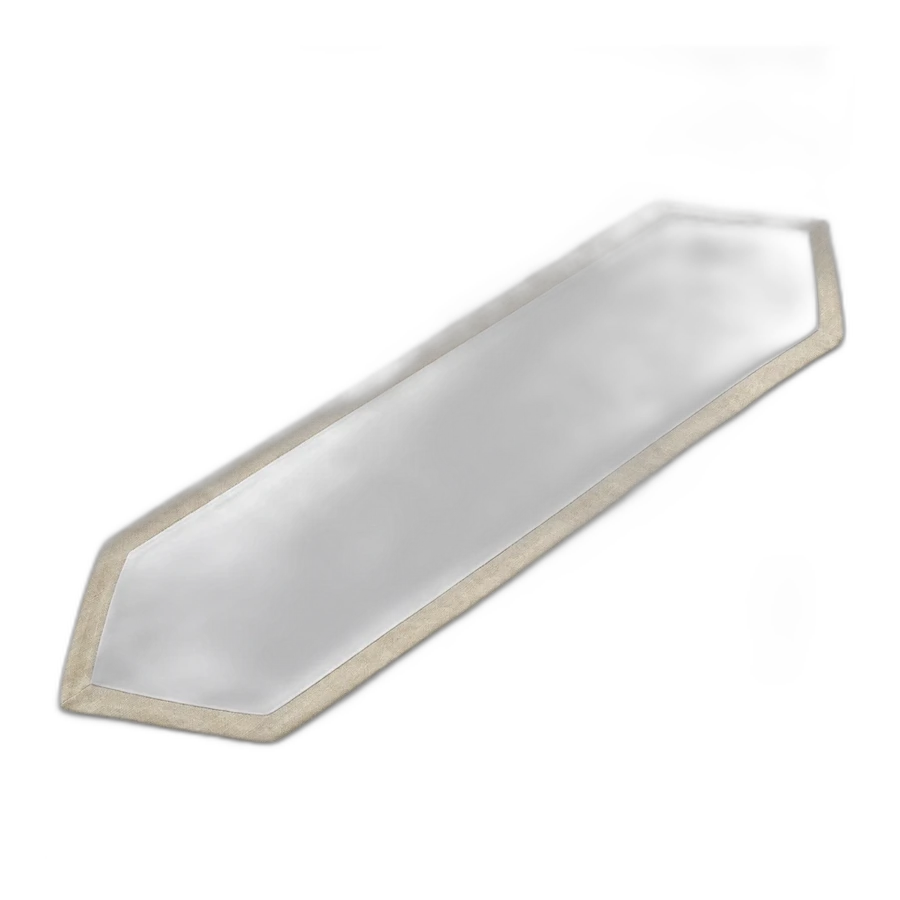
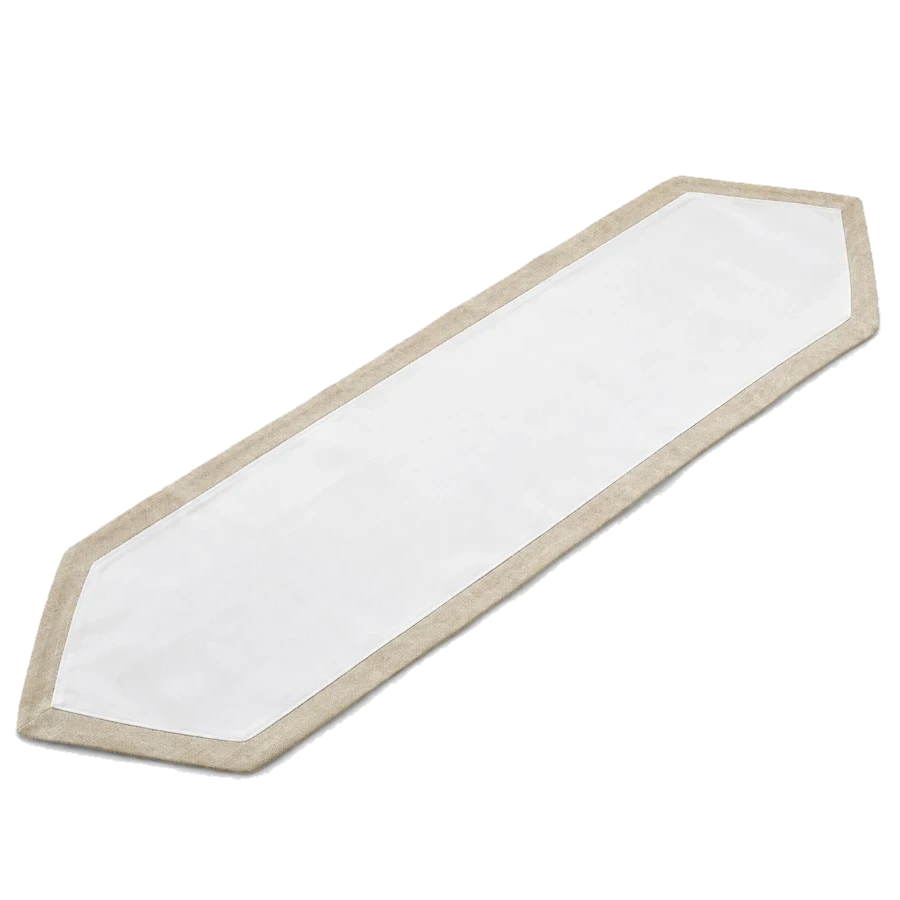
S-131: המתנות מזיקית בסטודיו — המוצר למעלה עם העיצוב (#419)
- js/print-fit.js (חדש, משותף): שטחי הדפסה + הלבשה בקוד, יצא מ-zikit-products.js
- js/subl-3d.js: סוג photo — תמונה נקייה + העיצוב מולבש בשטח ההדפסה, 27 מק"טים
- studio: SUBL3D_IDS +27, SUB_ITEMS +4 (8514, 8503-1, 8510, 8589), טעינת print-fit, כיווני דף (8582, 8360-4, 6458)
- תיקוני הלבשה: חיתוך לשקיפות המוצר, סינר מלא, stretch לאליפסות/ראנר, סיבוב דף אוטומטי
- תמונות leather/runner/woodphoto נחתכו מחדש (רקע לבן → flood fill)
- games-sw-30, studio-sw-23, מרשם, טבלת js משותפים

Claude-Session: https://claude.ai/code/session_01GxBj7RBw34hTrhEZWJwyFc

Changed region(s): [[0.0, 0.1867, 0.9956, 0.8711]]

diff --git a/js/print-fit.js b/js/print-fit.js
@@ -1,0 +1,109 @@
+/* print-fit.js — S-131/G-45: שטח ההדפסה האמיתי של כל מתנה מזיקית על התמונה הנקייה שלה, וההלבשה של ההדפסה עליו בקוד.
+ * משותף לעמוד המשחקים (js/zikit-products.js — דף המוצר) ולסטודיו (js/subl-3d.js — המוצר למעלה עם העיצוב של הלקוח).
+ * לכל מפתח: sku (מק"ט זיקית = SUB_ITEMS בסטודיו), mm = גובה המוצר בתמונה במ"מ (לקנה מידה בבמה), והצורה:
+ *   area: 4 נקודות ב-0..1 של התמונה (tl,tr,br,bl) — מישור, גם בפרספקטיבה · cyl: {cx,x0,x1,y0,y1} — גליל, ההדפסה עוטפת רק את החזית הנראית
+ *   heart / ellipse: תיבה [x0,y0,x1,y1] · alpha/blend: איך ההדפסה "נבלעת" בחומר (זכוכית/בד שקופים יותר; ספל פלא שחור = source-over)
+ * התמונות: images/games/zikit/<key>.webp, 900×900 עם שקיפות. ⛔ שינוי כאן = להעלות ?v= בשני הדפים (games/index.html, studio/index.html).
+ * PRINTFIT.render(canvas, spec, productImg, printImg|null) · PRINTFIT.load(key, base) · PRINTFIT.P · PRINTFIT.BY_SKU */
+(function () {
+  'use strict';
+  var P = {
+    'enamel':      { mm: 130, sku: '8724-3', name: 'ספל אמייל ענק עם מכסה', size: '700 מ״ל · הדפסה 20×7 ס״מ', cyl: { cx: .41, x0: .10, x1: .72, y0: .44, y1: .86 } },
+    'mug-neon':    { mm: 100, sku: '8514', name: 'ספל נאון', size: '300 מ״ל · הדפסה 20×9.5 ס״מ', cyl: { cx: .38, x0: .07, x1: .70, y0: .25, y1: .85 } },
+    'mug-magic':   { mm: 100, sku: '8503-1', name: 'ספל פלא — ההדפסה מתגלה בחום', size: '300 מ״ל · הדפסה 19×8 ס״מ', cyl: { cx: .37, x0: .05, x1: .70, y0: .24, y1: .85 }, blend: 'source-over' },
+    'mug-spoon':   { mm: 100, sku: '8510', name: 'ספל עם כפית', size: '300 מ״ל · הדפסה 20×9.5 ס״מ', cyl: { cx: .35, x0: .08, x1: .62, y0: .27, y1: .86 } },
+    'hugmug':      { mm: 150, sku: '8714-1', name: 'האג מאג טרמי', size: 'נירוסטה · הדפסה בחזית', cyl: { cx: .38, x0: .10, x1: .66, y0: .30, y1: .80 } },
+    'wine':        { mm: 160, sku: '8714-3', name: 'גביע יין נירוסטה', size: 'הדפסה על הכוס', cyl: { cx: .50, x0: .33, x1: .68, y0: .15, y1: .45 } },
+    'megamug':     { mm: 240, sku: '8715-1', name: 'מגה מאג טרמי עם קשית', size: '600 מ״ל · הדפסה 22×21 ס״מ', cyl: { cx: .45, x0: .30, x1: .60, y0: .30, y1: .85 } },
+    'thermo':      { mm: 170, sku: '8706-1', name: 'ספל טרמי נירוסטה', size: '400 מ״ל · הדפסה 20×9 ס״מ', cyl: { cx: .31, x0: .10, x1: .54, y0: .25, y1: .78 } },
+    'bottle':      { mm: 240, sku: '8703-2', name: 'בקבוק אלומיניום 600 מ״ל', size: 'הדפסה סביב הבקבוק', cyl: { cx: .50, x0: .34, x1: .65, y0: .45, y1: .88 } },
+    'bottle-straw':{ mm: 250, sku: '8703-1', name: 'בקבוק עם קשית', size: 'הדפסה סביב הבקבוק', cyl: { cx: .53, x0: .40, x1: .66, y0: .40, y1: .85 } },
+    'basalt':      { mm: 230, sku: '8582', name: 'אבן בזלת 12×22', size: 'אבן טבעית · הדפסה על הפן הלבן', area: [[.34, .13], [.67, .13], [.67, .85], [.34, .85]] },
+    'basalt-heart':{ mm: 210, sku: '8589', name: 'אבן בזלת לב 20×20', size: 'אבן טבעית · הדפסה על הפן הלבן', heart: [.15, .08, .85, .78] },
+    'woodphoto':   { mm: 220, sku: '8360-4', name: 'תמונה על עץ עם רגל ניקל', size: '15×20 ס״מ · הדפסה מלאה', area: [[.37, .09], [.68, .04], [.67, .85], [.37, .91]] },
+    'glass':       { mm: 240, sku: '6452', name: 'תמונה על זכוכית עם מעמד', size: '18×23 ס״מ', area: [[.09, .08], [.90, .06], [.90, .71], [.12, .87]], alpha: .9 },
+    'board':       { mm: 230, sku: '6458', name: 'לוח חיתוך זכוכית', size: '20×28 ס״מ · הדפסה מלאה', area: [[.13, .27], [.86, .27], [.96, .70], [.04, .70]] },
+    'crystal':     { mm: 210, sku: '6424', name: 'מגן קריסטל', size: '15×20 ס״מ', area: [[.16, .13], [.78, .09], [.83, .86], [.15, .90]], alpha: .92 },
+    'clock':       { mm: 260, sku: '8022-3', name: 'שעון עמוד LOVE', size: 'הדפסה על לוח השעון 20×20', ellipse: [.39, .37, .59, .57], stretch: true },
+    'woodshape':   { mm: 210, sku: '6101-H20', name: 'לב מעץ מבריק', size: '20 ס״מ · הדפסה מלאה', heart: [.11, .06, .95, .90] },
+    'tin':         { mm: 120, sku: '8707-3', name: 'קופסת מתכת עגולה', size: 'קוטר 15 ס״מ · הדפסה על המכסה', ellipse: [.11, .14, .89, .60], stretch: true },
+    'bracelet':    { mm: 70, sku: '9172-1', name: 'צמיד אלומיניום', size: 'רוחב 3.5 ס״מ', cyl: { cx: .50, x0: .05, x1: .95, y0: .36, y1: .68 } },
+    'hairbrush':   { mm: 230, sku: '8670-1', name: 'מברשת שיער', size: 'הדפסה 6.5×10.5 ס״מ', area: [[.38, .10], [.62, .10], [.62, .47], [.38, .47]], radius: .04 },
+    'magnet':      { mm: 160, sku: '8381', name: 'מגנט עץ 10×15', size: 'הדפסה מלאה', area: [[.21, .07], [.77, .05], [.81, .92], [.21, .95]] },
+    'leather':     { mm: 260, sku: '8609', name: 'תמונה מעור עם מעמד', size: '20×25 ס״מ', area: [[.23, .06], [.82, .05], [.70, .91], [.11, .82]] },
+    'scale':       { mm: 280, sku: '9608', name: 'משקל זכוכית דיגיטלי', size: '26×26 ס״מ · הדפסה מלאה', area: [[.09, .07], [.91, .07], [.95, .91], [.05, .91]], radius: .06 },
+    'apron':       { mm: 800, sku: '7603', name: 'סינר סובלימציה', size: 'הדפסה על כל הסינר', area: [[.21, .07], [.79, .07], [.79, .88], [.21, .88]], alpha: .9 },
+    'runner':      { mm: 420, sku: '7410-17', name: 'ראנר שולחן פשתן', size: '32×120 ס״מ', area: [[.10, .73], [.85, .23], [.92, .31], [.16, .82]], stretch: true },
+    'doormat':     { mm: 450, sku: '7413', name: 'שטיחון כניסה', size: 'הדפסה 25×56 ס״מ', area: [[.17, .37], [.86, .36], [.88, .60], [.13, .63]], alpha: .9 }
+  };
+  /* ── ציור: המוצר, ועליו ההדפסה בשטח ההדפסה בלבד ── */
+  function cover(ctx, im, x, y, w, h) { var s = Math.max(w / im.width, h / im.height), sw = w / s, sh = h / s; ctx.drawImage(im, (im.width - sw) / 2, (im.height - sh) / 2, sw, sh, x, y, w, h); }
+  function heartPath(ctx, x0, y0, x1, y1) {
+    var w = x1 - x0, h = y1 - y0, cx = x0 + w / 2;
+    ctx.beginPath(); ctx.moveTo(cx, y1);
+    ctx.bezierCurveTo(x0 - w * .05, y0 + h * .55, x0 + w * .02, y0 - h * .08, cx, y0 + h * .22);
+    ctx.bezierCurveTo(x1 - w * .02, y0 - h * .08, x1 + w * .05, y0 + h * .55, cx, y1); ctx.closePath();
+  }
+  function quadPath(ctx, q, W, H, r) {
+    ctx.beginPath(); if (!r) { q.forEach(function (p, i) { ctx[i ? 'lineTo' : 'moveTo'](p[0] * W, p[1] * H); }); ctx.closePath(); return; }
+    var rr = r * W; q.forEach(function (p, i) { var a = q[(i + 1) % 4], b = q[(i + 2) % 4]; if (!i) ctx.moveTo((p[0] + a[0]) / 2 * W, (p[1] + a[1]) / 2 * H); ctx.arcTo(a[0] * W, a[1] * H, b[0] * W, b[1] * H, rr); }); ctx.closePath();
+  }
+  // ציור תמונה לתוך מרובע כללי (פרספקטיבה) — בפסים אנכיים, כל פס אפיני
+  // הדף מסובב ב-90° כשהכיוון שלו הפוך מכיוון שטח ההדפסה בתמונה (לוח חיתוך 20×28 ששוכב, תמונת עץ 20×15 שעומדת)
+  function orient(im, landscape) {
+    var iw = im.width || im.naturalWidth, ih = im.height || im.naturalHeight; if ((iw > ih) === landscape) return im;
+    var c = document.createElement('canvas'); c.width = ih; c.height = iw; var x = c.getContext('2d'); x.translate(ih / 2, iw / 2); x.rotate(-Math.PI / 2); x.drawImage(im, -iw / 2, -ih / 2); return c;
+  }
+  function drawQuad(ctx, im, q, W, H, stretch) {
+    im = orient(im, Math.hypot((q[1][0] - q[0][0]) * W, (q[1][1] - q[0][1]) * H) > Math.hypot((q[3][0] - q[0][0]) * W, (q[3][1] - q[0][1]) * H));
+    var N = 48, s = Math.max(1, Math.min(im.width / (q[1][0] - q[0][0]) / W, 4));
+    var cw = im.width, ch = im.height;
+    // חיתוך cover ליחס של המרובע
+    var qw = Math.hypot((q[1][0] - q[0][0]) * W, (q[1][1] - q[0][1]) * H), qh = Math.hypot((q[3][0] - q[0][0]) * W, (q[3][1] - q[0][1]) * H);
+    var sc = Math.max(qw / cw, qh / ch), sw = qw / sc, sh = qh / sc, sx = (cw - sw) / 2, sy = (ch - sh) / 2;
+    if (stretch && Math.max(qw / qh, cw / ch) / Math.min(qw / qh, cw / ch) < 3) { sw = cw; sh = ch; sx = 0; sy = 0; }   // רק כשזה באמת הדף (לא תמונת דמו ריבועית)   // ראנר: המרובע בפרספקטיבה צר בהרבה מהדף — מועכים במקום לחתוך
+    for (var i = 0; i < N; i++) {
+      var t0 = i / N, t1 = (i + 1) / N;
+      var ax = (q[0][0] + (q[1][0] - q[0][0]) * t0) * W, ay = (q[0][1] + (q[1][1] - q[0][1]) * t0) * H;
+      var bx = (q[0][0] + (q[1][0] - q[0][0]) * t1) * W, by = (q[0][1] + (q[1][1] - q[0][1]) * t1) * H;
+      var dx = (q[3][0] + (q[2][0] - q[3][0]) * t0) * W, dy = (q[3][1] + (q[2][1] - q[3][1]) * t0) * H;
+      // אפיני: (0,0)->a, (1,0)->b, (0,1)->d
+      ctx.save(); ctx.beginPath(); ctx.moveTo(ax, ay); ctx.lineTo(bx + (bx - ax) * .02, by + (by - ay) * .02); ctx.lineTo(bx + (bx - ax) * .02 + (dx - ax), by + (by - ay) * .02 + (dy - ay)); ctx.lineTo(dx, dy); ctx.closePath(); ctx.clip();
+      ctx.transform(bx - ax, by - ay, dx - ax, dy - ay, ax, ay);
+      ctx.drawImage(im, sx + sw * t0, sy, sw / N, sh, 0, 0, 1, 1); ctx.restore();
+    }
+  }
+  // גליל: ההדפסה עוטפת את החזית — כל פס זז לפי sin, מתכווץ לפי cos
+  function drawCyl(ctx, im, c, W, H) {
+    var R = (c.x1 - c.x0) / 2 * W, cx = c.cx * W, y0 = c.y0 * H, h = (c.y1 - c.y0) * H, N = 64;
+    var span = Math.PI * .92, ar = (span * R) / h;   // רוחב "פרוש" של ההדפסה ביחס לגובה
+    var sw = Math.min(im.width, im.height * ar), sh = sw / ar, sx = (im.width - sw) / 2, sy = (im.height - sh) / 2;
+    for (var i = 0; i < N; i++) {
+      var a0 = -span / 2 + span * i / N, a1 = -span / 2 + span * (i + 1) / N;
+      var px0 = cx + R * Math.sin(a0), px1 = cx + R * Math.sin(a1);
+      var w = Math.max(px1 - px0, .5), shade = .55 + .45 * Math.cos((a0 + a1) / 2);
+      ctx.drawImage(im, sx + sw * i / N, sy, sw / N + 1, sh, px0, y0, w + .7, h);
+      ctx.fillStyle = 'rgba(0,0,0,' + ((1 - shade) * .35).toFixed(3) + ')'; ctx.fillRect(px0, y0, w + .7, h);
+    }
+  }
+  function render(cv, prod, im, printIm) {
+    var ctx = cv.getContext('2d'), W = cv.width, H = cv.height; ctx.clearRect(0, 0, W, H);
+    ctx.drawImage(im, 0, 0, W, H);
+    if (!printIm) return;
+    ctx.save(); ctx.globalCompositeOperation = prod.blend || 'multiply'; ctx.globalAlpha = prod.alpha || 1;
+    if (prod.cyl) { ctx.beginPath(); ctx.rect(prod.cyl.x0 * W - 2, prod.cyl.y0 * H, (prod.cyl.x1 - prod.cyl.x0) * W + 4, (prod.cyl.y1 - prod.cyl.y0) * H); ctx.clip(); drawCyl(ctx, printIm, prod.cyl, W, H); }
+    else if (prod.area) { quadPath(ctx, prod.area, W, H, prod.radius); ctx.clip(); drawQuad(ctx, printIm, prod.area, W, H, prod.stretch); }
+    else if (prod.heart) { var b = prod.heart; heartPath(ctx, b[0] * W, b[1] * H, b[2] * W, b[3] * H); ctx.clip(); cover(ctx, printIm, b[0] * W, b[1] * H, (b[2] - b[0]) * W, (b[3] - b[1]) * H); }
+    else if (prod.ellipse) { var e = prod.ellipse; ctx.beginPath(); ctx.ellipse((e[0] + e[2]) / 2 * W, (e[1] + e[3]) / 2 * H, (e[2] - e[0]) / 2 * W, (e[3] - e[1]) / 2 * H, 0, 0, Math.PI * 2); ctx.clip(); if (prod.stretch) ctx.drawImage(printIm, e[0] * W, e[1] * H, (e[2] - e[0]) * W, (e[3] - e[1]) * H); else cover(ctx, printIm, e[0] * W, e[1] * H, (e[2] - e[0]) * W, (e[3] - e[1]) * H); }
+    ctx.restore();
+    // ההדפסה רק איפה שיש מוצר — מחוץ לגוף (שקיפות התמונה) לא נשאר כלום
+    ctx.save(); ctx.globalCompositeOperation = 'destination-in'; ctx.drawImage(im, 0, 0, W, H); ctx.restore();
+    // ברק עדין מעל ההדפסה כדי שתשב "בתוך" החומר
+    if (prod.cyl) { var g = ctx.createLinearGradient(prod.cyl.x0 * W, 0, prod.cyl.x1 * W, 0); g.addColorStop(0, 'rgba(255,255,255,0)'); g.addColorStop(.3, 'rgba(255,255,255,.18)'); g.addColorStop(.5, 'rgba(255,255,255,0)'); ctx.save(); ctx.globalCompositeOperation = 'source-atop'; ctx.fillStyle = g; ctx.fillRect(prod.cyl.x0 * W, prod.cyl.y0 * H, (prod.cyl.x1 - prod.cyl.x0) * W, (prod.cyl.y1 - prod.cyl.y0) * H); ctx.restore(); }
+  }
+  function loadImg(src) { return new Promise(function (res, rej) { var im = new Image(); im.onload = function () { res(im); }; im.onerror = rej; im.src = src; }); }
+  var BY_SKU = {}; Object.keys(P).forEach(function (k) { P[k].key = k; BY_SKU[P[k].sku] = P[k]; });
+  var cache = {};
+  function load(key, base) { var src = (base || '../images/games/zikit/') + key + '.webp'; return cache[src] || (cache[src] = loadImg(src)); }
+  window.PRINTFIT = { P: P, BY_SKU: BY_SKU, render: render, load: load };
+})();

diff --git a/js/zikit-products.js b/js/zikit-products.js
@@ -2,48 +2,21 @@
  * לכל מוצר: תמונה נקייה (ChatGPT, רקע הוסר), שטח ההדפסה האמיתי מהקטלוג כמלבן/צורה על התמונה, מחיר מ-studio_blank_prices,
  * וכפתור "לעצב את שלי" → studio/?p=subl&item=<מק"ט>. ההדפסה מודגמת בקוד (לא תמונת AI) — בדיוק במקום שהמכבש מגיע אליו.
  * area: נקודות ב-0..1 של התמונה (tl,tr,br,bl) · cyl: {cx,x0,x1,y0,y1} גליל — ההדפסה עוטפת רק את החזית · heart/ellipse/circle: תיבה.
+ * שטחי ההדפסה והציור — js/print-fit.js (משותף עם הסטודיו).
  * הדמו: תמונת הלקוח מהעמוד (IndexedDB hoshaya-games) אם יש, אחרת תמונת חנוכה לדוגמה. */
 (function () {
   'use strict';
   var SB_URL = 'https://sccivxenkyzxolpraexf.supabase.co', SB_KEY = 'sb_publishable_Ctloh48bIY2Lxm_YmTiSGA_1ADr5FDz';
   var IMG = '../images/games/zikit/';
-  var P = {
-    'enamel':      { sku: '8724-3', name: 'ספל אמייל ענק עם מכסה', size: '700 מ״ל · הדפסה 20×7 ס״מ', cyl: { cx: .41, x0: .10, x1: .72, y0: .44, y1: .86 } },
-    'mug-neon':    { sku: '8514', name: 'ספל נאון', size: '300 מ״ל · הדפסה 20×9.5 ס״מ', cyl: { cx: .38, x0: .07, x1: .70, y0: .25, y1: .85 }, link: '../studio/?p=mug' },
-    'mug-magic':   { sku: '8503-1', name: 'ספל פלא — ההדפסה מתגלה בחום', size: '300 מ״ל · הדפסה 19×8 ס״מ', cyl: { cx: .37, x0: .05, x1: .70, y0: .24, y1: .85 }, blend: 'source-over', link: '../studio/?p=mug' },
-    'mug-spoon':   { sku: '8510', name: 'ספל עם כפית', size: '300 מ״ל · הדפסה 20×9.5 ס״מ', cyl: { cx: .35, x0: .08, x1: .62, y0: .27, y1: .86 }, link: '../studio/?p=mug' },
-    'hugmug':      { sku: '8714-1', name: 'האג מאג טרמי', size: 'נירוסטה · הדפסה בחזית', cyl: { cx: .38, x0: .10, x1: .66, y0: .30, y1: .80 } },
-    'wine':        { sku: '8714-3', name: 'גביע יין נירוסטה', size: 'הדפסה על הכוס', cyl: { cx: .50, x0: .33, x1: .68, y0: .15, y1: .45 } },
-    'megamug':     { sku: '8715-1', name: 'מגה מאג טרמי עם קשית', size: '600 מ״ל · הדפסה 22×21 ס״מ', cyl: { cx: .45, x0: .30, x1: .60, y0: .30, y1: .85 } },
-    'thermo':      { sku: '8706-1', name: 'ספל טרמי נירוסטה', size: '400 מ״ל · הדפסה 20×9 ס״מ', cyl: { cx: .31, x0: .10, x1: .54, y0: .25, y1: .78 } },
-    'bottle':      { sku: '8703-2', name: 'בקבוק אלומיניום 600 מ״ל', size: 'הדפסה סביב הבקבוק', cyl: { cx: .50, x0: .34, x1: .65, y0: .45, y1: .88 } },
-    'bottle-straw':{ sku: '8703-1', name: 'בקבוק עם קשית', size: 'הדפסה סביב הבקבוק', cyl: { cx: .53, x0: .40, x1: .66, y0: .40, y1: .85 } },
-    'basalt':      { sku: '8582', name: 'אבן בזלת 12×22', size: 'אבן טבעית · הדפסה על הפן הלבן', area: [[.34, .13], [.67, .13], [.67, .85], [.34, .85]] },
-    'basalt-heart':{ sku: '8589', name: 'אבן בזלת לב 20×20', size: 'אבן טבעית · הדפסה על הפן הלבן', heart: [.15, .08, .85, .78] },
-    'woodphoto':   { sku: '8360-4', name: 'תמונה על עץ עם רגל ניקל', size: '15×20 ס״מ · הדפסה מלאה', area: [[.37, .08], [.69, .05], [.66, .92], [.37, .95]] },
-    'glass':       { sku: '6452', name: 'תמונה על זכוכית עם מעמד', size: '18×23 ס״מ', area: [[.09, .08], [.90, .06], [.90, .71], [.12, .87]], alpha: .9 },
-    'board':       { sku: '6458', name: 'לוח חיתוך זכוכית', size: '20×28 ס״מ · הדפסה מלאה', area: [[.13, .27], [.86, .27], [.96, .70], [.04, .70]] },
-    'crystal':     { sku: '6424', name: 'מגן קריסטל', size: '15×20 ס״מ', area: [[.16, .13], [.78, .09], [.83, .86], [.15, .90]], alpha: .92 },
-    'clock':       { sku: '8022-3', name: 'שעון עמוד LOVE', size: 'הדפסה על לוח השעון 20×20', ellipse: [.39, .37, .59, .57] },
-    'woodshape':   { sku: '6101-H20', name: 'לב מעץ מבריק', size: '20 ס״מ · הדפסה מלאה', heart: [.11, .06, .95, .90] },
-    'tin':         { sku: '8707-3', name: 'קופסת מתכת עגולה', size: 'קוטר 15 ס״מ · הדפסה על המכסה', ellipse: [.11, .14, .89, .60] },
-    'bracelet':    { sku: '9172-1', name: 'צמיד אלומיניום', size: 'רוחב 3.5 ס״מ', cyl: { cx: .50, x0: .05, x1: .95, y0: .36, y1: .68 } },
-    'hairbrush':   { sku: '8670-1', name: 'מברשת שיער', size: 'הדפסה 6.5×10.5 ס״מ', area: [[.38, .10], [.62, .10], [.62, .47], [.38, .47]], radius: .04 },
-    'magnet':      { sku: '8381', name: 'מגנט עץ 10×15', size: 'הדפסה מלאה', area: [[.21, .07], [.77, .05], [.81, .92], [.21, .95]] },
-    'leather':     { sku: '8609', name: 'תמונה מעור עם מעמד', size: '20×25 ס״מ', area: [[.09, .10], [.80, .08], [.80, .90], [.09, .92]] },
-    'scale':       { sku: '9608', name: 'משקל זכוכית דיגיטלי', size: '26×26 ס״מ · הדפסה מלאה', area: [[.09, .07], [.91, .07], [.95, .91], [.05, .91]], radius: .06 },
-    'apron':       { sku: '7603', name: 'סינר סובלימציה', size: 'הדפסה 44×33 ס״מ', area: [[.26, .36], [.74, .36], [.72, .84], [.28, .84]], alpha: .85 },
-    'runner':      { sku: '7410-17', name: 'ראנר שולחן פשתן', size: '32×120 ס״מ', area: [[.07, .74], [.86, .20], [.95, .30], [.14, .84]] },
-    'doormat':     { sku: '7413', name: 'שטיחון כניסה', size: 'הדפסה 25×56 ס״מ', area: [[.17, .37], [.86, .36], [.88, .60], [.13, .63]], alpha: .9 }
-  };
+  var P = window.PRINTFIT.P, render = window.PRINTFIT.render;
   // תמונות הדגמה אמיתיות מ-ChatGPT (עם הדפסה מלאה) — רק למוצרים שההדפסה עוטפת אותם באמת
   var PRINT_PHOTO = { 'enamel': 1, 'mug-neon': 1, 'mug-magic': 1, 'hugmug': 1, 'wine': 1, 'megamug': 1, 'thermo': 1, 'bottle': 1, 'bottle-straw': 1 };
   var prices = {}, pricesReady = fetch(SB_URL + '/rest/v1/studio_blank_prices?select=key,price', { headers: { apikey: SB_KEY, Authorization: 'Bearer ' + SB_KEY } })
     .then(function (r) { return r.json(); }).then(function (rows) { (rows || []).forEach(function (r) { if (r.price > 0) prices[r.key] = r.price; }); try { window.dispatchEvent(new Event('zk-prices')); } catch (e) {} return prices; }).catch(function () { return prices; });
 
-  function priceKey(key) { var p = P[key]; if (!p) return null; if (/^mug/.test(key)) return 'mug-8517'; return 'subl-' + p.sku; }
+  function priceKey(key) { var p = P[key]; return p ? 'subl-' + p.sku : null; }
   function price(key) { var k = priceKey(key); return k ? prices[k] : undefined; }
-  function link(key) { var p = P[key]; return p.link || ('../studio/?p=subl&item=' + p.sku); }
+  function link(key) { return '../studio/?p=subl&item=' + P[key].sku; }
 
   /* ── תמונת הדמו: תמונה של הלקוח מהעמוד (IndexedDB) או חנוכה ── */
   var sampleP = null;
@@ -72,63 +45,7 @@
     return sampleP;
   }
 
-  /* ── ציור: המוצר, ועליו ההדפסה בשטח ההדפסה בלבד ── */
-  function cover(ctx, im, x, y, w, h) { var s = Math.max(w / im.width, h / im.height), sw = w / s, sh = h / s; ctx.drawImage(im, (im.width - sw) / 2, (im.height - sh) / 2, sw, sh, x, y, w, h); }
-  function heartPath(ctx, x0, y0, x1, y1) {
-    var w = x1 - x0, h = y1 - y0, cx = x0 + w / 2;
-    ctx.beginPath(); ctx.moveTo(cx, y1);
-    ctx.bezierCurveTo(x0 - w * .05, y0 + h * .55, x0 + w * .02, y0 - h * .08, cx, y0 + h * .22);
-    ctx.bezierCurveTo(x1 - w * .02, y0 - h * .08, x1 + w * .05, y0 + h * .55, cx, y1); ctx.closePath();
-  }
-  function quadPath(ctx, q, W, H, r) {
-    ctx.beginPath(); if (!r) { q.forEach(function (p, i) { ctx[i ? 'lineTo' : 'moveTo'](p[0] * W, p[1] * H); }); ctx.closePath(); return; }
-    var rr = r * W; q.forEach(function (p, i) { var a = q[(i + 1) % 4], b = q[(i + 2) % 4]; if (!i) ctx.moveTo((p[0] + a[0]) / 2 * W, (p[1] + a[1]) / 2 * H); ctx.arcTo(a[0] * W, a[1] * H, b[0] * W, b[1] * H, rr); }); ctx.closePath();
-  }
-  // ציור תמונה לתוך מרובע כללי (פרספקטיבה) — בפסים אנכיים, כל פס אפיני
-  function drawQuad(ctx, im, q, W, H) {
-    var N = 48, s = Math.max(1, Math.min(im.width / (q[1][0] - q[0][0]) / W, 4));
-    var cw = im.width, ch = im.height;
-    // חיתוך cover ליחס של המרובע
-    var qw = Math.hypot((q[1][0] - q[0][0]) * W, (q[1][1] - q[0][1]) * H), qh = Math.hypot((q[3][0] - q[0][0]) * W, (q[3][1] - q[0][1]) * H);
-    var sc = Math.max(qw / cw, qh / ch), sw = qw / sc, sh = qh / sc, sx = (cw - sw) / 2, sy = (ch - sh) / 2;
-    for (var i = 0; i < N; i++) {
-      var t0 = i / N, t1 = (i + 1) / N;
-      var ax = (q[0][0] + (q[1][0] - q[0][0]) * t0) * W, ay = (q[0][1] + (q[1][1] - q[0][1]) * t0) * H;
-      var bx = (q[0][0] + (q[1][0] - q[0][0]) * t1) * W, by = (q[0][1] + (q[1][1] - q[0][1]) * t1) * H;
-      var dx = (q[3][0] + (q[2][0] - q[3][0]) * t0) * W, dy = (q[3][1] + (q[2][1] - q[3][1]) * t0) * H;
-      // אפיני: (0,0)->a, (1,0)->b, (0,1)->d
-      ctx.save(); ctx.beginPath(); ctx.moveTo(ax, ay); ctx.lineTo(bx + (bx - ax) * .02, by + (by - ay) * .02); ctx.lineTo(bx + (bx - ax) * .02 + (dx - ax), by + (by - ay) * .02 + (dy - ay)); ctx.lineTo(dx, dy); ctx.closePath(); ctx.clip();
-      ctx.transform(bx - ax, by - ay, dx - ax, dy - ay, ax, ay);
-      ctx.drawImage(im, sx + sw * t0, sy, sw / N, sh, 0, 0, 1, 1); ctx.restore();
-    }
-  }
-  // גליל: ההדפסה עוטפת את החזית — כל פס זז לפי sin, מתכווץ לפי cos
-  function drawCyl(ctx, im, c, W, H) {
-    var R = (c.x1 - c.x0) / 2 * W, cx = c.cx * W, y0 = c.y0 * H, h = (c.y1 - c.y0) * H, N = 64;
-    var span = Math.PI * .92, ar = (span * R) / h;   // רוחב "פרוש" של ההדפסה ביחס לגובה
-    var sw = Math.min(im.width, im.height * ar), sh = sw / ar, sx = (im.width - sw) / 2, sy = (im.height - sh) / 2;
-    for (var i = 0; i < N; i++) {
-      var a0 = -span / 2 + span * i / N, a1 = -span / 2 + span * (i + 1) / N;
-      var px0 = cx + R * Math.sin(a0), px1 = cx + R * Math.sin(a1);
-      var w = Math.max(px1 - px0, .5), shade = .55 + .45 * Math.cos((a0 + a1) / 2);
-      ctx.drawImage(im, sx + sw * i / N, sy, sw / N + 1, sh, px0, y0, w + .7, h);
-      ctx.fillStyle = 'rgba(0,0,0,' + ((1 - shade) * .35).toFixed(3) + ')'; ctx.fillRect(px0, y0, w + .7, h);
-    }
-  }
-  function render(cv, prod, im, printIm) {
-    var ctx = cv.getContext('2d'), W = cv.width, H = cv.height; ctx.clearRect(0, 0, W, H);
-    ctx.drawImage(im, 0, 0, W, H);
-    if (!printIm) return;
-    ctx.save(); ctx.globalCompositeOperation = prod.blend || 'multiply'; ctx.globalAlpha = prod.alpha || 1;
-    if (prod.cyl) { ctx.beginPath(); ctx.rect(prod.cyl.x0 * W - 2, prod.cyl.y0 * H, (prod.cyl.x1 - prod.cyl.x0) * W + 4, (prod.cyl.y1 - prod.cyl.y0) * H); ctx.clip(); drawCyl(ctx, printIm, prod.cyl, W, H); }
-    else if (prod.area) { quadPath(ctx, prod.area, W, H, prod.radius); ctx.clip(); drawQuad(ctx, printIm, prod.area, W, H); }
-    else if (prod.heart) { var b = prod.heart; heartPath(ctx, b[0] * W, b[1] * H, b[2] * W, b[3] * H); ctx.clip(); cover(ctx, printIm, b[0] * W, b[1] * H, (b[2] - b[0]) * W, (b[3] - b[1]) * H); }
-    else if (prod.ellipse) { var e = prod.ellipse; ctx.beginPath(); ctx.ellipse((e[0] + e[2]) / 2 * W, (e[1] + e[3]) / 2 * H, (e[2] - e[0]) / 2 * W, (e[3] - e[1]) / 2 * H, 0, 0, Math.PI * 2); ctx.clip(); cover(ctx, printIm, e[0] * W, e[1] * H, (e[2] - e[0]) * W, (e[3] - e[1]) * H); }
-    ctx.restore();
-    // ברק עדין מעל ההדפסה כדי שתשב "בתוך" החומר
-    if (prod.cyl) { var g = ctx.createLinearGradient(prod.cyl.x0 * W, 0, prod.cyl.x1 * W, 0); g.addColorStop(0, 'rgba(255,255,255,0)'); g.addColorStop(.3, 'rgba(255,255,255,.18)'); g.addColorStop(.5, 'rgba(255,255,255,0)'); ctx.save(); ctx.globalCompositeOperation = 'source-atop'; ctx.fillStyle = g; ctx.fillRect(prod.cyl.x0 * W, prod.cyl.y0 * H, (prod.cyl.x1 - prod.cyl.x0) * W, (prod.cyl.y1 - prod.cyl.y0) * H); ctx.restore(); }
-  }
-  function loadImg(src) { return new Promise(function (res, rej) { var im = new Image(); im.onload = function () { res(im); }; im.onerror = rej; im.src = src; }); }
+  function loadImg(src) { return window.PRINTFIT.load(src.replace(IMG, '').replace('.webp', ''), IMG); }
 
   /* ── חלון המוצר ── */
   var modal, state = { key: null, mode: 'print' };

diff --git a/studio/index.html b/studio/index.html
@@ -3856,9 +3856,10 @@ function shGo(n){if(n===3)shOrderInit();SH.step=n;shView=n===2?'2d':'3d';shPage=
 function shBarBtn(){const st=SH.step||1;if(st<3)shGo(st+1);else shConfirm();} // הכפתור הקבוע למטה = הצעד הבא
 // ── התלת־ממד של החולצה ──
 // ── S-121: מתנות מזיקית בתלת־ממד (js/subl-3d.js) — המוצר עצמו, בגודל אמיתי, עם העיצוב של הלקוח. מוצר בלי מודל = הדף השטוח כמו קודם
-const SUBL3D_IDS=new Set(["7318-4", "7331-3", "7331-2", "7318-7", "7324-1", "7324-2", "7324-4", "7324-5", "7622", "7410-13", "7410-16", "7410-14", "7410-11", "7410-23", "7410-22", "7410-24", "7410-25", "7410-32", "7410-33", "8501", "8517", "8672", "8671", "8678", "7611", "6442"]);let sbPage=false;const SB3={st:null,key:'',t:0,p:null};
+const SUBL3D_IDS=new Set(["7318-4", "7331-3", "7331-2", "7318-7", "7324-1", "7324-2", "7324-4", "7324-5", "7622", "7410-13", "7410-16", "7410-14", "7410-11", "7410-23", "7410-22", "7410-24", "7410-25", "7410-32", "7410-33", "8501", "8517", "8672", "8671", "8678", "7611", "6442","8724-3","8514","8503-1","8510","8714-1","8714-3","8715-1","8706-1","8703-2","8703-1","8582","8589","8360-4","6452","6458","6424","8022-3","6101-H20","8707-3","9172-1","8670-1","8381","8609","9608","7603","7410-17","7413"]); /* S-131: המתנות מזיקית עם תמונה נקייה — js/print-fit.js */let sbPage=false;const SB3={st:null,key:'',t:0,p:null};
 const sb3dOk=()=>SUBL3D_IDS.has(SB.item);
-function loadSubl3d(){return SB3.p||(SB3.p=loadThree().then(()=>window.SUBL3D?0:new Promise((ok,no)=>{const s=document.createElement('script');s.src='../js/subl-3d.js?v=1';s.onload=ok;s.onerror=()=>{SB3.p=null;no(new Error('subl3d'));};document.head.append(s);})));}
+function loadScriptOnce(src){return new Promise((ok,no)=>{const s=document.createElement('script');s.src=src;s.onload=ok;s.onerror=()=>no(new Error(src));document.head.append(s);});}
+function loadSubl3d(){return SB3.p||(SB3.p=loadThree().then(()=>window.PRINTFIT?0:loadScriptOnce('../js/print-fit.js?v=1')).then(()=>window.SUBL3D?0:new Promise((ok,no)=>{const s=document.createElement('script');s.src='../js/subl-3d.js?v=2';s.onload=ok;s.onerror=()=>{SB3.p=null;no(new Error('subl3d'));};document.head.append(s);})));}
 function sbArt(w,h,side){if(side==null)return null;const it=subItem();if(side==='back'&&!(it.two&&SB.both))return null;const pp=Math.min(12,1400/Math.max(it.w,it.h)),c=document.createElement('canvas');c.width=Math.round(it.w*pp);c.height=Math.round(it.h*pp);const x=c.getContext('2d');x.scale(pp,pp);subArt(x,it);return c;}
 function sb3dShow(){const box=document.getElementById('sb3d');loadSubl3d().then(()=>{if(!SB3.st)SB3.st=SUBL3D.stage(box,{keep:true});sb3dUpdate();}).catch(()=>{box.textContent='לא הצלחתי לטעון את התלת־ממד — בדקו חיבור ונסו שוב';});}
 function sb3dUpdate(){if(!SB3.st)return;const sig=[SB.item,SB.bg,SB.text,SB.font,SB.color,SB.tpos,SB.tsize,SB.outline,SB.zoom,SB.ox,SB.oy,SB.both,(SB.img||[]).map(phId).join(',')].join('|');if(sig===SB3.key)return;
@@ -4056,6 +4057,9 @@ const SUB_CATS=[['mugs','🍵 ספלים ובקבוקים'],['photo','🖼 ת
 const SUB_ITEMS=[
   // ── S-99 (29/10/2026): המוצרים שהוזמנו מזיקית ("עדכון הזמנה לזיקית") — פתוח ללקוחות, הצעת מחיר. שטח ההדפסה במ"מ מהקטלוג.
   {id:'8724-3',cat:'mugs',name:'ספל אמייל ענק 700 מ"ל עם מכסה',w:200,h:70,shape:'rect',two:false,mug:true,time:360,temp:200,cost:'24',size:'גובה 10 · קוטר 9.5',color:'לבן',note:'עטיפת פרו 360 שנ\''},
+  {id:'8514',cat:'mugs',name:'ספל נאון (כתום/צהוב/ירוק)',w:200,h:95,shape:'rect',two:false,mug:true,time:180,temp:200,cost:'6',size:'300 מ"ל',color:'לבן + נאון',note:'צבע הפנים והידית לפי המלאי'},
+  {id:'8503-1',cat:'mugs',name:'ספל פלא שחור — ההדפסה מתגלה בחום',w:190,h:80,shape:'rect',two:false,mug:true,time:180,temp:200,cost:'8',size:'300 מ"ל',color:'שחור',note:'ההדפסה נראית רק עם משקה חם'},
+  {id:'8510',cat:'mugs',name:'ספל לבן עם כפית',w:200,h:95,shape:'rect',two:false,mug:true,time:180,temp:200,cost:'7',size:'300 מ"ל',color:'לבן',note:'צבע הכפית לפי המלאי'},
   {id:'8714-1',cat:'mugs',name:'האג מאג טרמי (לבן)',w:200,h:90,shape:'rect',two:false,mug:true,time:180,temp:200,cost:'19',size:'גובה 12 · קוטר 8',color:'לבן',note:''},
   {id:'8714-2',cat:'mugs',name:'האג מאג טרמי — פנינה נוצצים',w:200,h:90,shape:'rect',two:false,mug:true,time:180,temp:200,cost:'24',size:'גובה 12 · קוטר 8',color:'פנינה',note:''},
   {id:'8714-3',cat:'mugs',name:'גביע יין נירוסטה לבן',w:200,h:70,shape:'rect',two:false,mug:true,time:180,temp:200,cost:'39',size:'קוטר 8.5',color:'לבן',note:''},
@@ -4063,15 +4067,16 @@ const SUB_ITEMS=[
   {id:'8706-1',cat:'mugs',name:'ספל נירוסטה טרמי לבן 400 מ"ל',w:200,h:90,shape:'rect',two:false,mug:true,time:180,temp:200,cost:'19',size:'גובה 16.4 · קוטר 8.2',color:'לבן',note:''},
   {id:'8703-2',cat:'mugs',name:'בקבוק אלומיניום 600 מ"ל (פקק + שאקל)',w:200,h:110,shape:'rect',two:false,mug:true,time:180,temp:200,cost:'9',size:'קוטר 7.2',color:'לבן',note:''},
   {id:'8703-1',cat:'mugs',name:'בקבוק אלומיניום 600 מ"ל עם קשית',w:200,h:110,shape:'rect',two:false,mug:true,time:180,temp:200,cost:'13',size:'קוטר 7.2',color:'לבן',note:''},
-  {id:'8582',cat:'photo',name:'אבן בזלת 22×12',w:200,h:100,shape:'rounded',two:false,time:300,temp:200,cost:'12',size:'22×12',color:'שחור',note:'שטח ההדפסה לפי האבן'},
+  {id:'8589',cat:'photo',name:'אבן בזלת לב 20×20',w:200,h:200,shape:'heart',two:false,time:300,temp:200,cost:'19',size:'20×20',color:'שחור',note:'שטח ההדפסה לפי האבן'},
+  {id:'8582',cat:'photo',name:'אבן בזלת 22×12',w:100,h:200,shape:'rounded',two:false,time:300,temp:200,cost:'12',size:'22×12',color:'שחור',note:'שטח ההדפסה לפי האבן'},
   {id:'8585',cat:'photo',name:'אבן בזלת 30×20',w:280,h:180,shape:'rounded',two:false,time:300,temp:200,cost:'19',size:'30×20',color:'שחור',note:''},
   {id:'8360-1',cat:'photo',name:'תמונה מעץ עם רגל ניקל (קטן)',w:150,h:100,shape:'rect',two:false,time:60,temp:200,cost:'10',size:'15×10',color:'לבן',note:''},
-  {id:'8360-4',cat:'photo',name:'תמונה מעץ עם רגל ניקל (גדול)',w:200,h:150,shape:'rect',two:false,time:60,temp:200,cost:'16',size:'20×15',color:'לבן',note:''},
+  {id:'8360-4',cat:'photo',name:'תמונה מעץ עם רגל ניקל (גדול)',w:150,h:200,shape:'rect',two:false,time:60,temp:200,cost:'16',size:'20×15',color:'לבן',note:''},
   {id:'8193',cat:'photo',name:'מעמד אקריל לשתי תמונות 10×15',w:150,h:80,shape:'rect',two:true,time:60,temp:200,cost:'18',size:'10×15 ×2',color:'לבן',note:'שתי תמונות — אותו עיצוב או שניים'},
   {id:'6452',cat:'photo',name:'זכוכית דקה 23×18 עם מעמד יהלום',w:230,h:180,shape:'rect',two:false,time:240,temp:180,cost:'12',size:'23×18',color:'לבן',note:'⚠ הדפסה ללא מראה',noMirror:true},
   {id:'6451',cat:'photo',name:'זכוכית דקה 30×16 עם מעמד יהלום',w:300,h:160,shape:'rect',two:false,time:240,temp:180,cost:'24',size:'30×16',color:'לבן',note:'⚠ הדפסה ללא מראה',noMirror:true},
   {id:'6443',cat:'photo',name:'זכוכית 23×18 עם מסגרת מראה',w:230,h:180,shape:'rect',two:false,time:240,temp:180,cost:'12',size:'23×18',color:'לבן',note:'⚠ הדפסה ללא מראה',noMirror:true},
-  {id:'6458',cat:'home',name:'לוח חיתוך זכוכית 20×28',w:200,h:280,shape:'rounded',two:false,time:240,temp:180,cost:'16',size:'20×28',color:'שקוף על לבן',note:'⚠ הדפסה ללא מראה',noMirror:true},
+  {id:'6458',cat:'home',name:'לוח חיתוך זכוכית 20×28',w:280,h:200,shape:'rounded',two:false,time:240,temp:180,cost:'16',size:'20×28',color:'שקוף על לבן',note:'⚠ הדפסה ללא מראה',noMirror:true},
   {id:'6422',cat:'photo',name:'מגן קריסטל 10×15',w:100,h:150,shape:'rect',two:false,time:240,temp:180,cost:'22',size:'10×15',color:'שקוף',note:'⚠ הדפסה ללא מראה',noMirror:true},
   {id:'6424',cat:'photo',name:'מגן קריסטל 15×20',w:150,h:200,shape:'rect',two:false,time:240,temp:180,cost:'45',size:'15×20',color:'שקוף',note:'⚠ הדפסה ללא מראה',noMirror:true},
   {id:'8022-3',cat:'wood',name:'שעון עמוד LOVE',w:200,h:200,shape:'circle',two:false,time:60,temp:200,cost:'49',size:'60×29 · לוח 20×20',color:'עץ',note:''},

diff --git a/js/subl-3d.js b/js/subl-3d.js
@@ -39,6 +39,34 @@
     '8671': { kind: 'opener', name: 'פותחן מחזיק מפתחות', w: 30, h: 30, style: 'key' },
     '8678': { kind: 'opener', name: 'פותחן מלבני', w: 55, h: 55, style: 'rect' },
     '7611': { kind: 'shade', name: 'וילון צד לרכב — זוג', w: 430, h: 365 },
+    // S-131: המתנות מזיקית עם תמונה נקייה (js/print-fit.js) — ההדפסה מולבשת בקוד על שטח ההדפסה האמיתי, כרטיס עם עובי במקום מודל
+    '8724-3': { kind: 'photo', key: 'enamel', w: 200, h: 70 },
+    '8514': { kind: 'photo', key: 'mug-neon', w: 200, h: 95 },
+    '8503-1': { kind: 'photo', key: 'mug-magic', w: 190, h: 80 },
+    '8510': { kind: 'photo', key: 'mug-spoon', w: 200, h: 95 },
+    '8714-1': { kind: 'photo', key: 'hugmug', w: 200, h: 90 },
+    '8714-3': { kind: 'photo', key: 'wine', w: 200, h: 70 },
+    '8715-1': { kind: 'photo', key: 'megamug', w: 220, h: 210 },
+    '8706-1': { kind: 'photo', key: 'thermo', w: 200, h: 90 },
+    '8703-2': { kind: 'photo', key: 'bottle', w: 200, h: 110 },
+    '8703-1': { kind: 'photo', key: 'bottle-straw', w: 200, h: 110 },
+    '8582': { kind: 'photo', key: 'basalt', w: 100, h: 200 },
+    '8589': { kind: 'photo', key: 'basalt-heart', w: 200, h: 200 },
+    '8360-4': { kind: 'photo', key: 'woodphoto', w: 150, h: 200 },
+    '6452': { kind: 'photo', key: 'glass', w: 230, h: 180 },
+    '6458': { kind: 'photo', key: 'board', w: 280, h: 200 },
+    '6424': { kind: 'photo', key: 'crystal', w: 150, h: 200 },
+    '8022-3': { kind: 'photo', key: 'clock', w: 200, h: 200 },
+    '6101-H20': { kind: 'photo', key: 'woodshape', w: 198, h: 198 },
+    '8707-3': { kind: 'photo', key: 'tin', w: 150, h: 150 },
+    '9172-1': { kind: 'photo', key: 'bracelet', w: 180, h: 35 },
+    '8670-1': { kind: 'photo', key: 'hairbrush', w: 65, h: 105 },
+    '8381': { kind: 'photo', key: 'magnet', w: 100, h: 150 },
+    '8609': { kind: 'photo', key: 'leather', w: 200, h: 250 },
+    '9608': { kind: 'photo', key: 'scale', w: 260, h: 260 },
+    '7603': { kind: 'photo', key: 'apron', w: 570, h: 777 },
+    '7410-17': { kind: 'photo', key: 'runner', w: 1200, h: 320 },
+    '7413': { kind: 'photo', key: 'doormat', w: 560, h: 250 },
     '6442': { kind: 'glass', name: 'זכוכית עם מעמד יהלום', w: 180, h: 130 },
   };
   const LEATHER = { white: ['לבן', '#F7F5F0'], pink: ['ורוד עתיק', '#D9A3A8'], turq: ['טורקיז', '#4FB3B0'], tan: ['חום בהיר', '#C49A6C'] };
@@ -411,7 +439,22 @@
     return { group: G, spin: 'sway', tilt: 0 };
   }
 
-  const BUILD = { pouch: buildPouch, tote: buildTote, diecut: buildDiecut, mitt: buildMitt, mat: buildFlat, coaster: buildFlat, mug: buildMug, opener: buildOpener, shade: buildShade, glass: buildGlass };
+  /* S-131: מוצר מתמונה נקייה + הדפסה מולבשת בקוד (PRINTFIT). קנבס 900×900 → כרטיס עם 6 שכבות עובי מאחור (כמו photoCard בעמוד המשחקים). */
+  function buildPhoto(it, art) {
+    const TH = T(), G = new TH.Group(), PF = W.PRINTFIT, spec = PF && PF.P[it.key]; if (!spec) throw new Error('subl-3d: no PRINTFIT ' + it.key);
+    const mm = spec.mm || 200, c = cv(900, 900), t = tex(c); t.anisotropy = 4;
+    const geo = new TH.PlaneGeometry(mm, mm);
+    for (let i = 6; i >= 0; i--) {
+      const dark = i ? .55 + .05 * (6 - i) : 1;
+      const m = new TH.Mesh(geo, new TH.MeshStandardMaterial({ map: t, transparent: true, alphaTest: .35, roughness: .6, color: new TH.Color(dark, dark, dark), side: TH.DoubleSide }));
+      m.position.z = -i * mm * .006; m.position.x = -i * mm * .002; G.add(m);
+    }
+    const pr = art(it.w, it.h, 'front');
+    PF.load(it.key, (W.PRINTFIT_BASE || '../images/games/zikit/')).then(im => { PF.render(c, spec, im, pr); t.needsUpdate = true; }).catch(() => {});
+    return { group: G, spin: 'sway', tilt: 0 };
+  }
+
+  const BUILD = { pouch: buildPouch, tote: buildTote, diecut: buildDiecut, mitt: buildMitt, mat: buildFlat, coaster: buildFlat, mug: buildMug, opener: buildOpener, shade: buildShade, glass: buildGlass, photo: buildPhoto };
 
   function build(id, art, opt = {}) {
     const it = ITEMS[id]; if (!it) throw new Error('subl-3d: unknown ' + id);

diff --git a/games/sw.js b/games/sw.js
@@ -3,7 +3,7 @@
 // הדף והמנוע: רשת קודם (כל עדכון מגיע מיד), ומהמטמון רק כשאין רשת. פונטים מ-CDN: מהמטמון מיד, ומתעדכנים ברקע.
 // התמונות של הלקוחה לא עוברות כאן בכלל — הן ב-IndexedDB.
 // שינוי בקובץ הזה = להעלות את V, כדי לנקות מטמון ישן.
-const V = 'games-sw-29';
+const V = 'games-sw-30';
 const SHELL = ['./', './manifest.webmanifest', './icons/icon-192.png', './icons/icon-512.png', '../js/play-engine.js?v=10'];
 const CDN = ['fonts.googleapis.com', 'fonts.gstatic.com'];
 

diff --git a/studio/sw.js b/studio/sw.js
@@ -3,7 +3,7 @@
 // ספריות מ-CDN ופונטים: מהמטמון מיד, ומתעדכנים ברקע.
 // Supabase (הזמנות, כניסה) לא עובר כאן בכלל.
 // שינוי בקובץ הזה = להעלות את V, כדי לנקות מטמון ישן.
-const V = 'studio-sw-22';
+const V = 'studio-sw-23';
 const SHELL = ['./', './manifest.webmanifest', './icons/icon-192.png', './icons/icon-512.png'];
 const CDN = ['cdnjs.cloudflare.com', 'cdn.jsdelivr.net', 'fonts.googleapis.com', 'fonts.gstatic.com'];
 

diff --git a/games/index.html b/games/index.html
@@ -18,7 +18,8 @@
   <script src="../js/play-engine.js?v=10"></script>
   <script src="../js/showcase-3d.js?v=10" defer></script>
   <script src="../js/zikit-3d.js?v=4" defer></script>
-  <script src="../js/zikit-products.js?v=1" defer></script>
+  <script src="../js/print-fit.js?v=1" defer></script>
+  <script src="../js/zikit-products.js?v=2" defer></script>
   <style>
     :root{
       --blue:#2563EB;--blue-light:#DBEAFE;--indigo:#4338CA;--purple:#7C3AED;--wa:#25D366;--wa-dark:#1DA851;--navy:#0F172A;

diff --git a/מרשם-משחקים.md b/מרשם-משחקים.md
@@ -48,6 +48,7 @@
 | G-39 | 30/10/2026 | **🕍 אריחי "רביעיות המקדש" ו"לודו עולים לרגל"** ב-`games/index.html` (ליד סולמות וחבלים של המקדש) → `../studio/?p=quartets&set=mikdash` / `?p=ludo&set=mikdash` (הושעיה: "כל מה שיוצא יכנס גם לאתר הרגיל") |
 | G-40 | 30/10/2026 | **🕍 אריחי "זיכרון המקדש", "בינגו המקדש" ו"דומינו שבעת המינים"** ב-`games/index.html` → `?p=memory&set=mikdash` / `?p=bingo&set=mikdash` |
 | G-41 | 30/10/2026 | **🕍 אריח "פאזל בית המקדש"** ב-`games/index.html` → `?p=puzzle&set=mikdash` |
+| S-131 | 09/11/2026 | **המתנות מזיקית בסטודיו: המוצר למעלה עם העיצוב של הלקוח** (הושעיה: "שהפריט מופיע למעלה כמו שעשינו בחולצות… תלת־ממד או ההדפסה לדף"). `js/print-fit.js?v=1` (חדש, משותף): שטחי ההדפסה + ההלבשה בקוד יצאו מ-`zikit-products.js` לקובץ אחד שטוענים גם `games/` וגם הסטודיו. `js/subl-3d.js?v=2`: סוג חדש `photo` — התמונה הנקייה כקנבס 900×900 עם העיצוב של הלקוח מולבש בשטח ההדפסה (PRINTFIT.render), כרטיס עם עובי, `sway`; 27 מק"טים נוספו ל-`ITEMS` ול-`SUBL3D_IDS` בסטודיו → לכל מתנה מזיקית יש עכשיו 🧊 תלת־ממד / 📄 שטח ההדפסה. `SUB_ITEMS` +4: 8514 ספל נאון, 8503-1 ספל פלא, 8510 ספל עם כפית (היו מקושרים ל-`?p=mug` שלא מכיר אותם), 8589 אבן בזלת לב; מחירים `subl-8514/8503-1/8510` נוספו ל-`studio_blank_prices`. תיקוני הלבשה: ההדפסה נחתכת לשקיפות המוצר (`destination-in`), סינר = כל הסינר, אליפסות מוטות (קופסה, שעון) = `stretch`. `loadSubl3d` טוען קודם `print-fit.js`. `zikit-products.js?v=2` (כל הספלים → `?p=subl&item=`). `games-sw-30`, `studio-sw-23`. ⛔ באג שנתפס בבדיקה: הערת `//` בסוף שורת `SUBL3D_IDS` בלעה את `let sbPage` — בשורה הזו רק `/* */` | — | 09/11/2026 |
 | G-45 | 09/11/2026 | **דפי מוצר למתנות מזיקית + מחירון באתר** (הושעיה: "המחירים האלה באתר… כל מוצר עמוד ראשי שלו עם המחיר… לפני ואחרי… מחובר למה שבנינו"; "מהרבה דברים תשים רק את האובייקט… מכבש חום שלי עם פלטות ישרות"). `js/zikit-products.js?v=1` (חדש): 27 מוצרים, לכל אחד תמונה נקייה (ChatGPT, רקע הוסר, `images/games/zikit/<key>.webp` הוחלפו + 6 חדשות) ו**שטח ההדפסה האמיתי** מהקטלוג (מרובע/גליל/לב/אליפסה ב-0..1). ההדפסה מודגמת **בקוד** (canvas, multiply, עטיפת גליל לחזית בלבד) — לא תמונת AI, כי המכבש השטוח לא מגיע לידית/תחתית. חלון מוצר (`.zk-modal`): "המוצר / עם התמונה שלכם", מידות, מחיר חי מ-`studio_blank_prices` (`subl-<מק"ט>`, ספלים `mug-8517`), "לעצב את שלי" → `studio/?p=subl&item=`, הקודם/הבא, `#gift=<key>` לשיתוף. רשת `#zk-grid` מתחת ל-hub. `showcase-3d.js?v=10`: לחיצה על מוצר בקרוסלה פותחת את החלון (לא ישר לסטודיו) ומחיר בכיתוב (`zk-prices`). `zikit-3d.js?v=4`: +`basalt-heart`, מק"טים תוקנו (hugmug 8714-1, apron 7603, basalt 8582). מחירון: 62 שורות `subl-*` חדשות + פאזלים/דומינו/טנגרם/ספלים עודכנו ב-`studio_blank_prices` לפי סקר השוק; ספל 45/49 (היה 36) גם ב-`games/index.html` וב-`BLANK_PRICE` בסטודיו. `games-sw-29`, `studio-sw-22`. תמונות "עם הדפסה" מ-ChatGPT (9, `images/games/zikit/print/`) נשמרו לשימוש עתידי, לא בשימוש בדף. חולצה לא שונתה | — | 09/11/2026 |
 | G-43 | קרוסלת המתנות: רק מה שהגיע מזיקית (הושעיה 02/11, קובץ "הזמנה מזיקית – רשימה סופית", עמודת "הגיע"). 19 מוצרים שעוד לא הגיעו ("לבדוק") עברו ל-`window.ZIKIT_NOT_YET` ב-`js/zikit-3d.js` — להחזיר כשמגיעים. נשארו 30 (חולצה, ספל, פאזל + 27). `zikit-3d.js?v=3`, `games-sw-26` | — | 02/11/2026 |
 | G-44 | 09/11/2026 | 📤 "שלחו לחבר" ב-`games/` (מתחת לכותרת) וב-`play/` (שומר `?demo=`) — `js/share-link.js`, ראו W-67 | ✅ מוזג |

diff --git a/CLAUDE.md b/CLAUDE.md
@@ -211,6 +211,7 @@
 | `js/cmyk-jpeg.js` | `dobble.html` (חיתוך צורני, D-77), `studio/index.html` (חיתוך צורני לכל המשחקים, S-61 — נטען בלחיצה כ-`../js/cmyk-jpeg.js?v=1`) | חיתוך צורני בשני הדפים: קובץ הגרפיקה CMYK נפתח בצבעים נכונים (לא בתשליל) · ⛔ שינוי = להעלות `?v=` **בשני הדפים** |
 | `js/a11y-modal.js` | `dobble.html`, `pencil-stickers.html` (נטען כ-`js/a11y-modal.js?v=N`) | כל חלון (`.modal-bg`/`.modal-overlay`): מיקוד נכנס, Tab לכוד, `inert` לרקע, Esc לפי `data-esc`, חזרת מיקוד, role/aria; skip-link. חלון חדש = להוסיף `data-esc` · ⛔ שינוי = להעלות `?v=` **בשני הדפים** |
 | `js/share-link.js` | `index.html`, `card-games.html`, `matchito-info.html`, `matchito.html`, `games/`, `play/`, `studio/` (W-67; נטען כ-`js/share-link.js?v=N` או `../js/…`) | בכל דף: כפתור `[data-share]` אחד, בטלפון `navigator.share` עם הכתובת בלי פרמטרים (חוץ מ-`data-share-keep`), במחשב חלון וואטסאפ **אחד** · ⛔ שינוי = להעלות `?v=` **בכל שבעת הדפים** |
+| `js/print-fit.js` | `games/index.html` (דף המוצר, `js/zikit-products.js`), `studio/index.html` (`subl-3d.js` סוג `photo`; נטען עצל מ-`loadSubl3d`) | שטחי ההדפסה של 27 המתנות מזיקית וההלבשה בקוד. בשני הדפים: ההדפסה יושבת בשטח הנכון, לא גולשת מחוץ לגוף המוצר, ספלים/בקבוקים עוטפים חזית בלבד · ⛔ שינוי = להעלות `?v=` **בשני הדפים** (`games/index.html` + `loadSubl3d` בסטודיו) |
 
 הרשימה תגדל — הסטודיו צפוי לטעון את `back-assets.js` ו-`hebrew-fonts.js`. **מי שמוסיף דף לרשימה מעדכן את הטבלה הזו באותו PR.**
 
